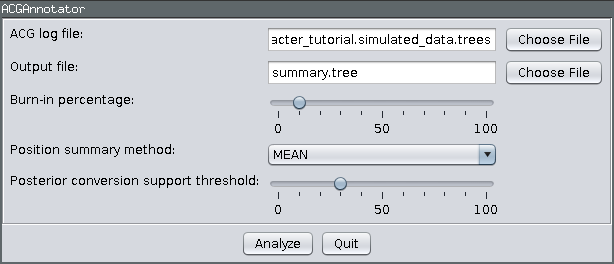
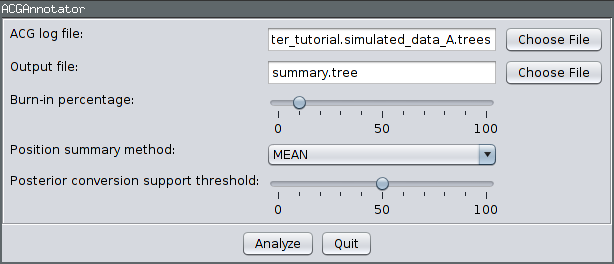
Finished multi-locus tutorial.

diff --git a/doc/basic_tutorial.rst b/doc/basic_tutorial.rst
@@ -145,7 +145,7 @@ The ARGs sampled during a Bacter analysis can be viewed using browser-based
 requires an up-to-date version of Firefox or Chrome to function correctly.
 
 To use the viewer, simply open the `IcyTree`_ web page in a browser window,
-select File->Load from file, then choose the tree file using the file chooser.
+select File->"Load from file", then choose the tree file using the file chooser.
 Alternatively, you can simply drag the tree file onto the IcyTree window.
 
 Once loaded, the first ARG in the tree file is displayed.  Use the comma and
@@ -212,9 +212,12 @@ name and location of the file to which the summary is written.  In addition, you
    inclusion in a majority-rule consensus tree.)
 
 For this tutorial, ensure the ACG (tree) log file generated by the above
-analysis is selected and choose :file:`summary.tree` as the output file name.  Leave
-the burn-in fraction at 10% and keep MEAN as the position summary method.
-Lower the conversion support threshold down to around 30%.  The dialog should
+analysis is selected and choose :file:`summary.tree` as the output file name.
+Leave the burn-in fraction at 10% and keep MEAN as the position summary method.
+The most important parameter is the conversion support threshold, which affects
+the proportion of sampled ARGs a conversion must appear in for it to be
+included in the summary.  In this case, we will leave this at its default value
+of 50%, but you may wish to experiment with other values.  The dialog should
 now look like the following image:
 
 .. image:: images/acgannotator.png
@@ -230,19 +233,22 @@ recombinant edges indicates their posterior support and they have been labelled
 with the sites affected by the corresponding conversion. Error bars indicating
 the node age 95% HPD intervals have also been included.)
 
-.. image:: images/summary_errorbars.png
+.. image:: images/summary.png
 
 For comparison, the following depicts the true ARG that was used to produce the
 simulated data:
 
 .. image:: images/truth.png
 
-Although the inference has
-recovered many features of the true ARG, fewer features appear in the summary
-than were present in reality.  This is a side-effect of the summary procedure,
-which includes only those features that have adequate support.  Features in
-the original which did not produce a strong signal in the data do not appear
-in the summary.
+Although the inference has recovered many features of the true ARG, fewer
+features appear in the summary than were present in reality.  In particular, no
+conversions ancestral to locusA have been recovered. This is a side-effect of
+the summary procedure, which includes only those features that have adequate
+support.  Features in the original which did not produce a strong signal in the
+data do not appear in the summary. In addition, it's almost certain that the
+chain has not completely converged to the true posterior - running the
+algorithm for more steps will no-doubt recover a greater fraction of the
+conversions.
 
 Wrapping up
 ===========
